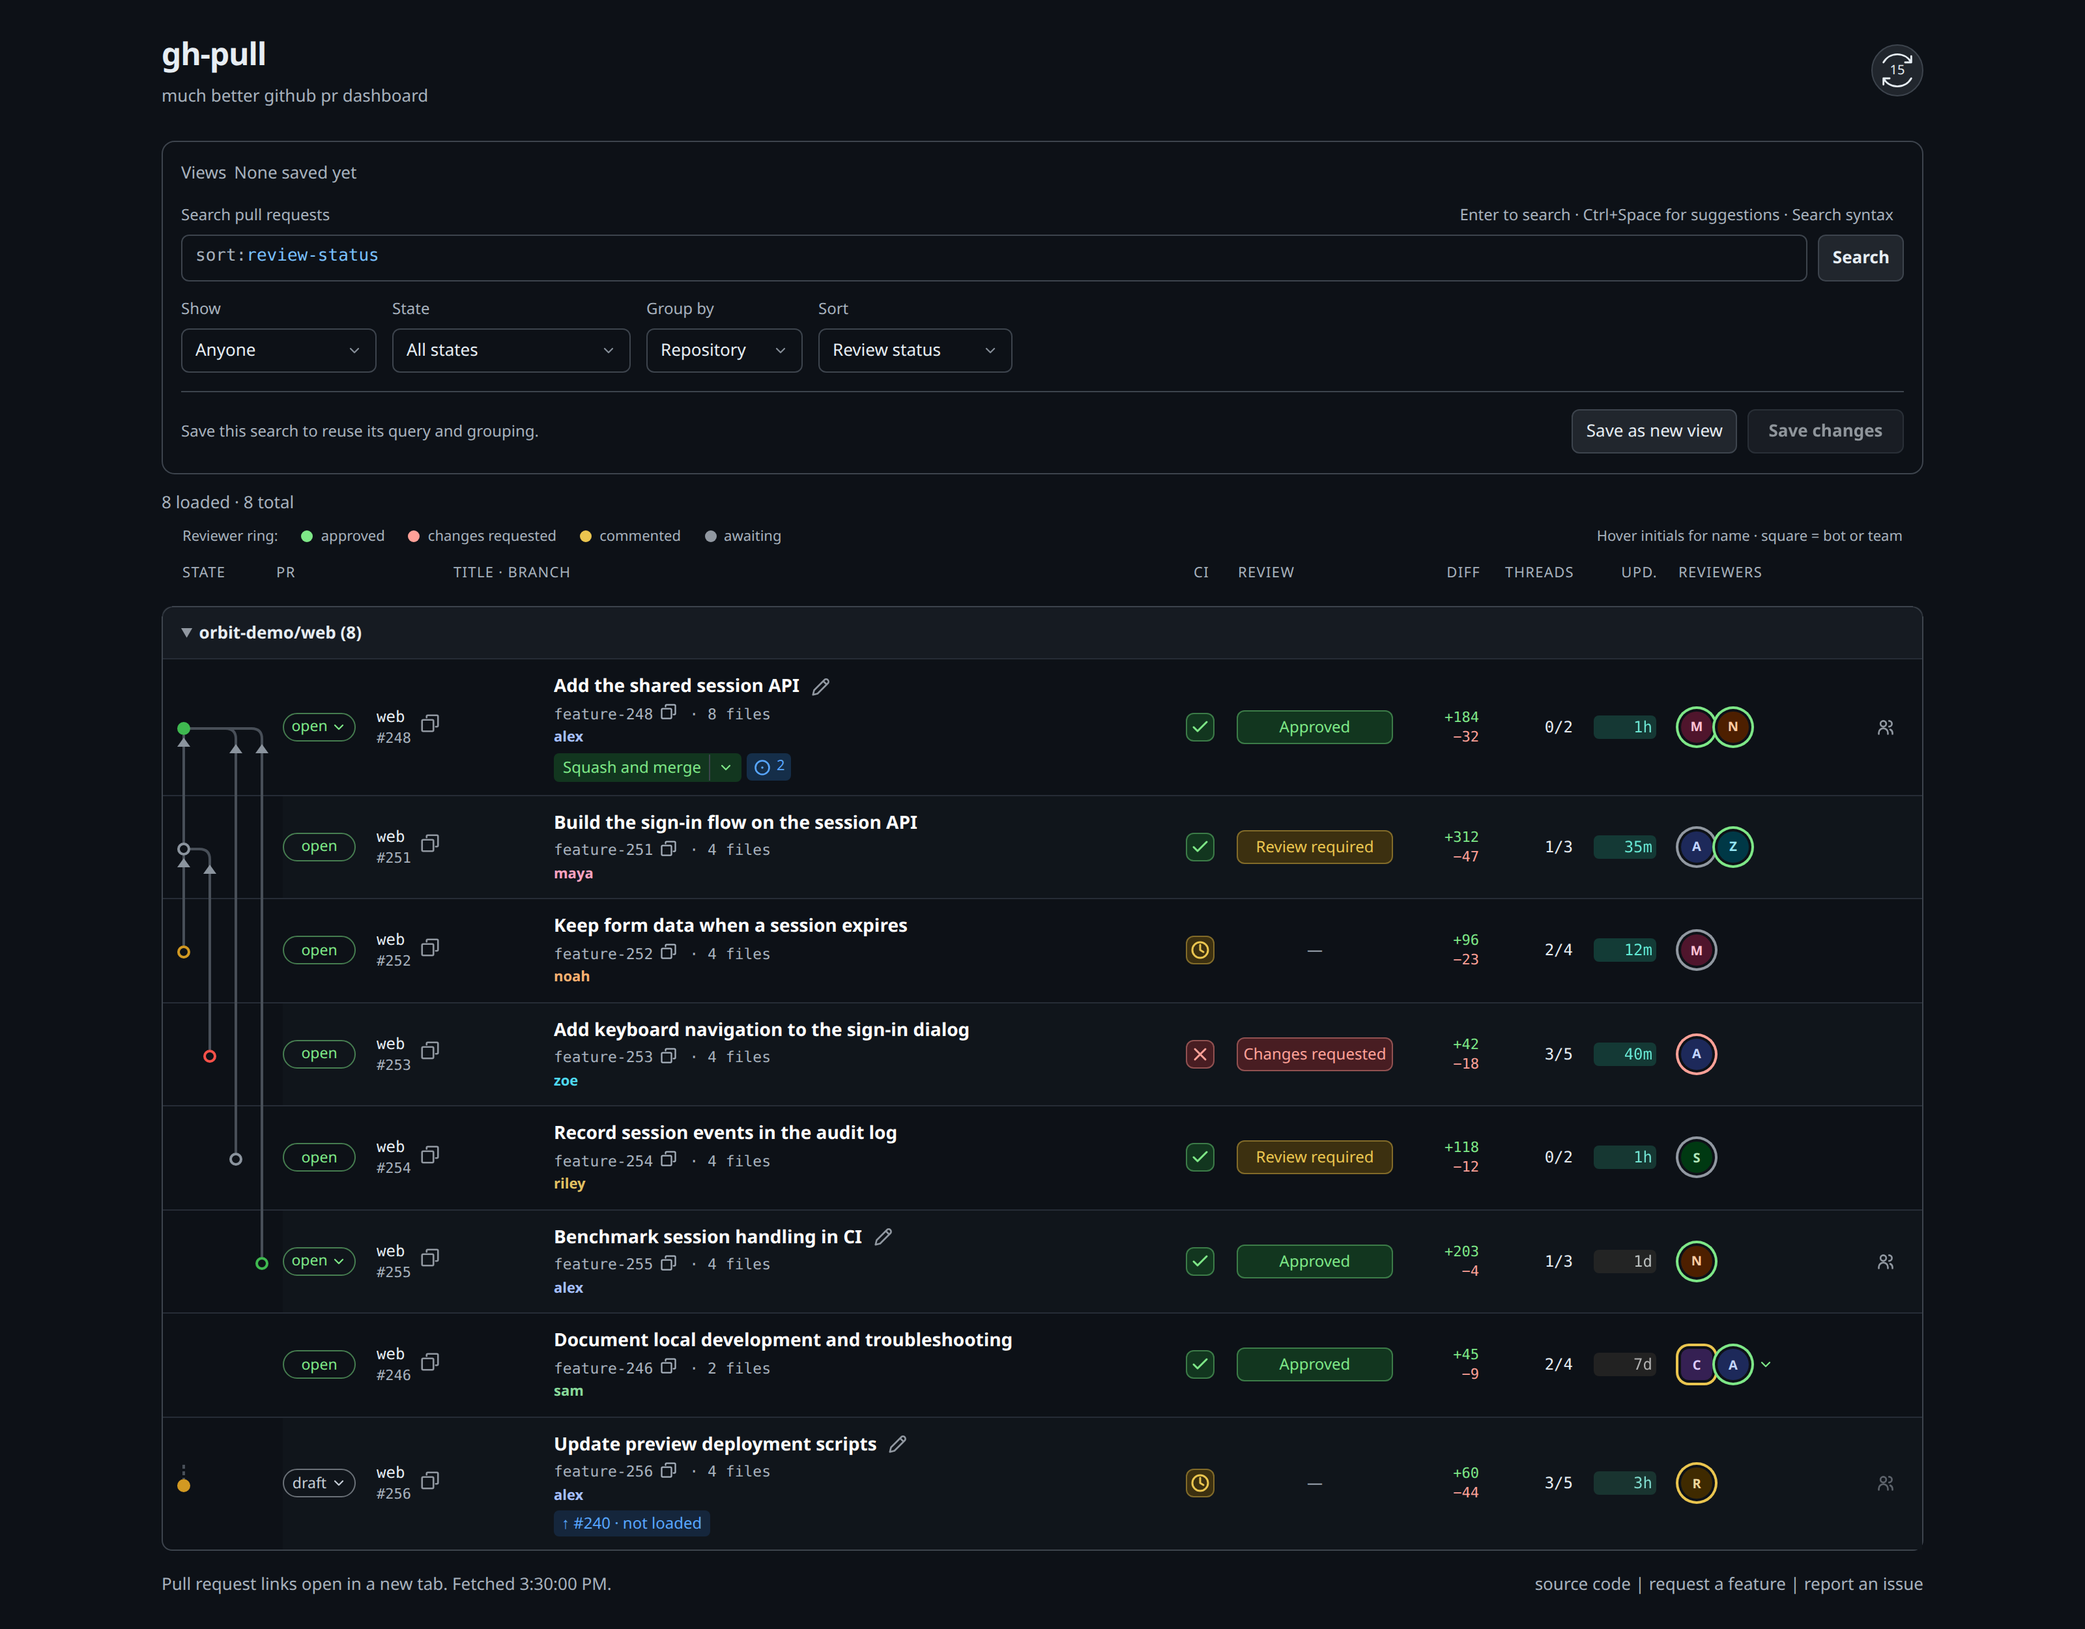
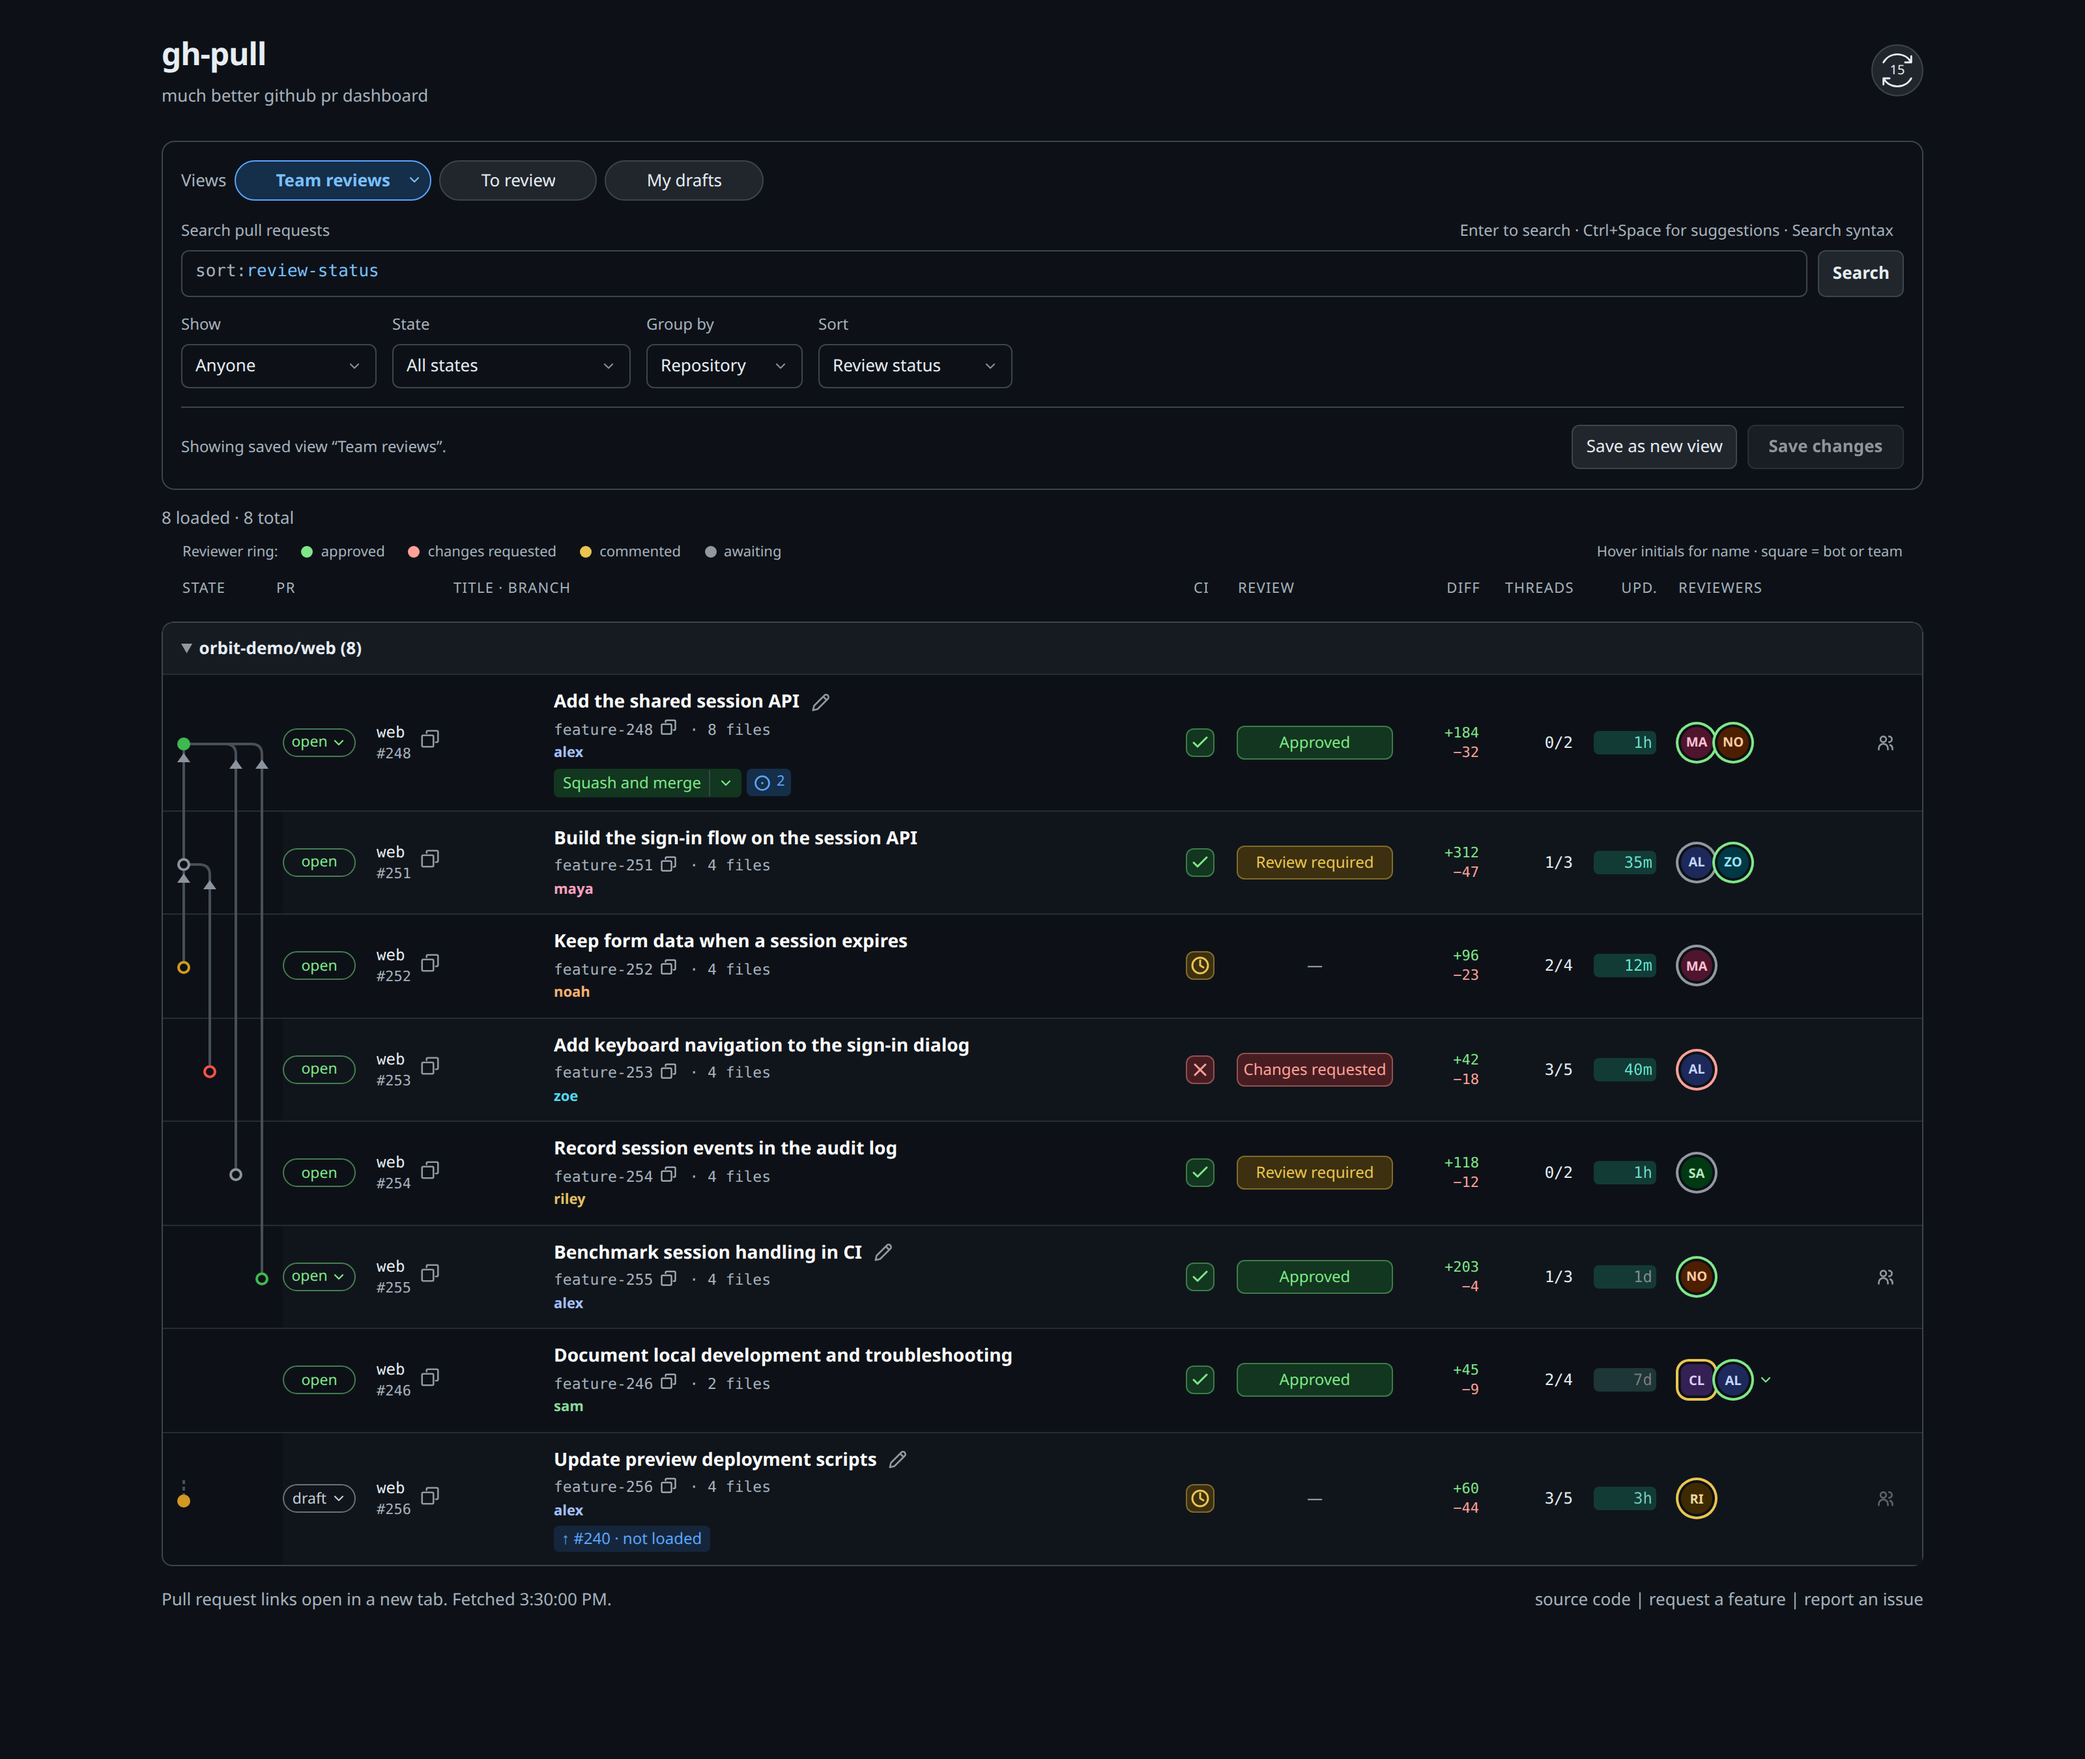
fix: address reviewer sorting, identity, and screenshot feedback

diff --git a/public/row.js b/public/row.js
@@ -43,13 +43,14 @@ function reviewerList(pr, ctx) {
   const order = { CHANGES_REQUESTED: 0, REQUESTED: 1, COMMENTED: 2, DISMISSED: 3, APPROVED: 4 };
   const sorted = [...(pr.reviewers ?? [])].sort((a, b) => (order[a.state] ?? 5) - (order[b.state] ?? 5) || a.name.localeCompare(b.name));
   const manage = isOwn(pr, viewerLogin) && ['OPEN', 'DRAFT'].includes(pr.status) && reviewerManager;
-  return html`<div class="reviewers" role="group" aria-label="Reviewers">
+  const hasReviewers = sorted.length > 0 || pr.reviewersTruncated || manage;
+  return html`<div class="reviewers" role=${hasReviewers ? 'group' : nothing} aria-label=${hasReviewers ? 'Reviewers' : nothing}>
     <div class="reviewer-avatars">${repeat(sorted, r => r.name, reviewer => {
       const description = reviewStates[reviewer.state]?.[0] ?? reviewer.state;
       const avatar = reviewerAvatar(reviewer.name, reviewer.state, nameColors[reviewer.name.toLowerCase()] * 360 / NAME_COLOR_COUNT, reviewer.kind, !reviewer.canRevoke);
       return html`<span class="reviewer" title=${`${reviewer.name}: ${description}`} aria-label=${`${reviewer.name}: ${description}`}>${reviewer.canRevoke ? reviewControl(pr, reviewer, avatar) : avatar}</span>`;
     })}</div>
-    ${pr.reviewersTruncated && githubUrl(pr.url) !== nothing ? html`<a class="reviewers-more" href=${githubUrl(pr.url)} target="_blank" rel="noopener noreferrer" data-view-pr title="View all reviewers on GitHub" aria-label="View all reviewers on GitHub">…</a>` : nothing}
+    ${pr.reviewersTruncated && githubUrl(pr.url) !== nothing ? html`<a class="reviewers-more" href=${githubUrl(pr.url)} target="_blank" rel="noopener noreferrer" data-view-pr title="View all reviewers on GitHub" aria-label="View all reviewers on GitHub">All ↗</a>` : nothing}
     ${manage ? reviewerManager(pr, Boolean(savingPull(pr.id))) : nothing}
   </div>`;
 }

diff --git a/public/templates.js b/public/templates.js
@@ -29,7 +29,9 @@ export function usernameLink(name, className = '', hue) {
     aria-label=${`${name}'s GitHub profile (opens in a new tab)`}>${name}</a>`;
 }
 export function reviewerAvatar(name, state, hue, kind, interactive = true) {
-  const initials = name.replace(/\[bot\]$/i, '').split(/[-_/]+/).filter(Boolean).map(part => part[0]).join('').slice(0, 2).toUpperCase();
+  const label = name.replace(/\[bot\]$/i, '').split('/').at(-1);
+  const parts = label.split(/[-_]+/).filter(Boolean);
+  const initials = (parts.length > 1 ? parts.map(part => part[0]).join('') : label).slice(0, 2).toUpperCase();
   const square = kind === 'bot' || kind === 'team' || name.includes('/') || /\[bot\]$/i.test(name);
   const classes = `author reviewer-avatar reviewer-${state.toLowerCase()}${square ? ' reviewer-square' : ''}`;
   return interactive && /^[a-z\d](?:[a-z\d-]*[a-z\d])?$/i.test(name)

diff --git a/test/query.test.js b/test/query.test.js
@@ -151,8 +151,8 @@ test('review status sort persists in queries and uses supported upstream orderin
 });
 
 test('review status sort prioritizes action and breaks ties by recency', () => {
-  const items = ['NONE', 'APPROVED', 'REVIEW_REQUIRED', 'CHANGES_REQUESTED', 'REVIEW_REQUIRED'].map((review, i) => ({
+  const items = ['NONE', 'APPROVED', 'REVIEW_REQUIRED', 'CHANGES_REQUESTED', 'REVIEW_REQUIRED', 'REVIEW_BYPASS_AVAILABLE'].map((review, i) => ({
     id: String(i), review, title: '', labels: [], updatedAt: `2026-10-${20+i}T00:00:00Z`,
   }));
-  assert.deepEqual(groupPulls(items, { group: 'none', sort: 'review' }).groups[0][1].map(p => p.id), ['3', '4', '2', '1', '0']);
+  assert.deepEqual(groupPulls(items, { group: 'none', sort: 'review' }).groups[0][1].map(p => p.id), ['3', '5', '4', '2', '1', '0']);
 });

diff --git a/public/model.js b/public/model.js
@@ -72,7 +72,7 @@ export function assignNameColors(usernames, previous = {}) {
   return colors;
 }
 
-const reviewOrder = { CHANGES_REQUESTED: 0, REVIEW_REQUIRED: 1, APPROVED: 2, NONE: 3 };
+const reviewOrder = { CHANGES_REQUESTED: 0, REVIEW_REQUIRED: 1, REVIEW_BYPASS_AVAILABLE: 1, APPROVED: 2, NONE: 3 };
 function compareReviewStatus(a, b) {
   return (reviewOrder[a.review] ?? 3) - (reviewOrder[b.review] ?? 3)
     || (Date.parse(b.updatedAt) || 0) - (Date.parse(a.updatedAt) || 0);
